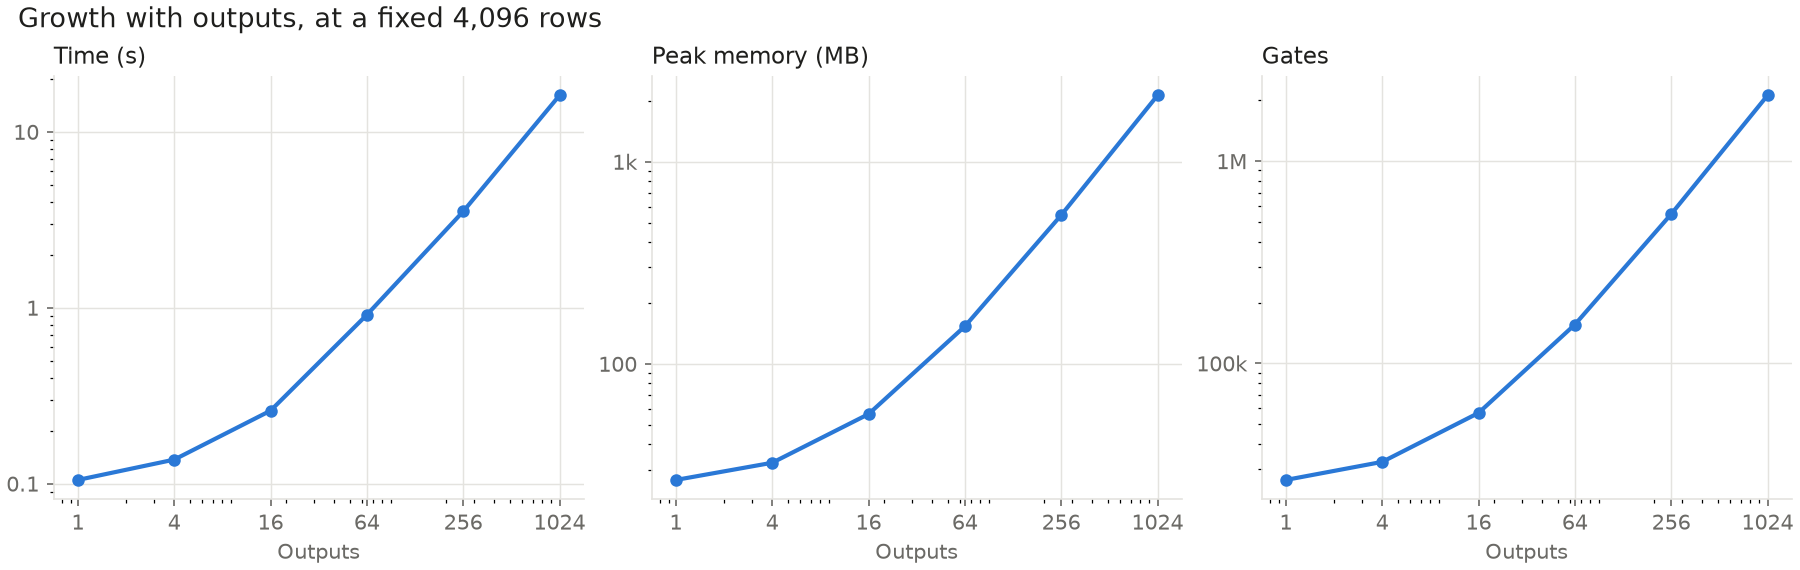
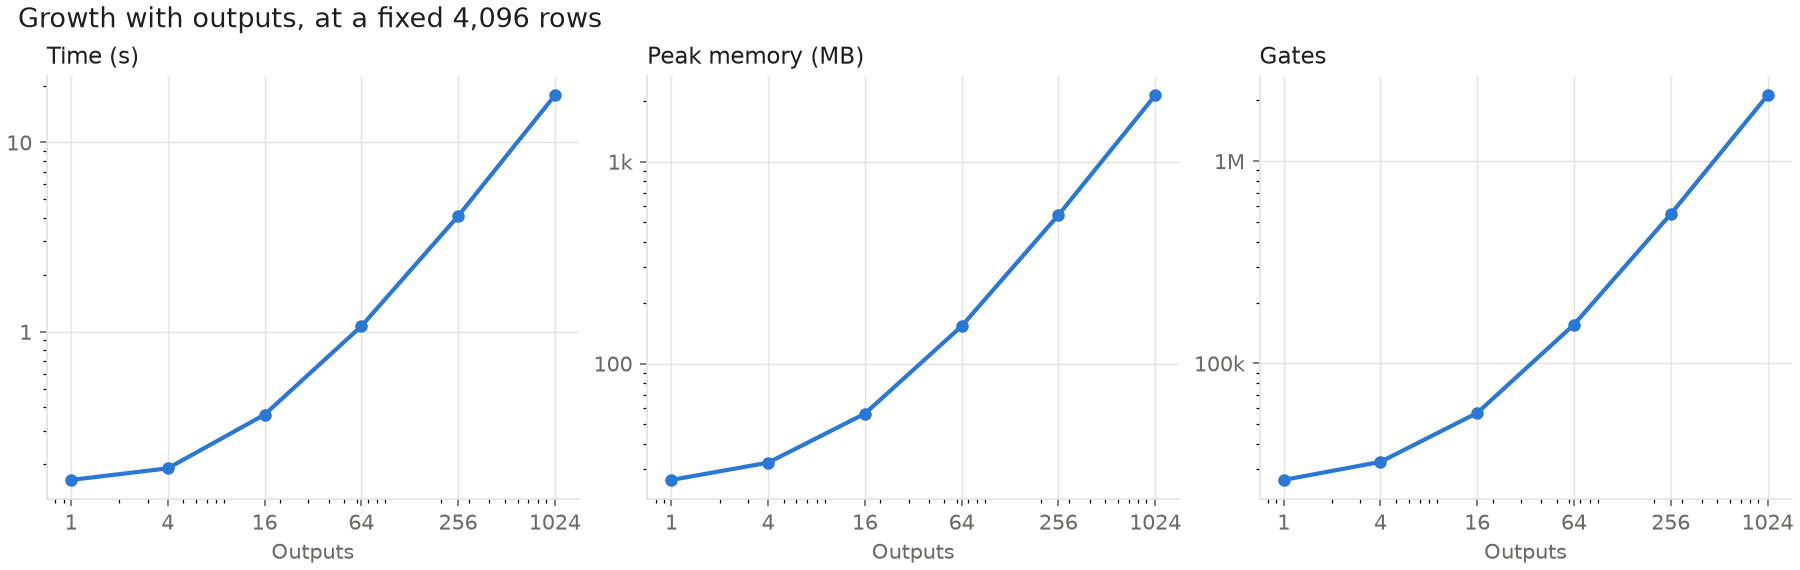
updated synthesizer benchmark and removed old baseline

diff --git a/benchmark/synthesizer/plot.py b/benchmark/synthesizer/plot.py
@@ -2,8 +2,8 @@
 """Turns one folder's results.csv into graphs and slopes.csv in its plots/ folder.
 
     benchmark/synthesizer/plot.py                      plots results/current/
-    benchmark/synthesizer/plot.py before_memory_fix    plots a saved run
-    benchmark/synthesizer/plot.py --compare before_memory_fix
+    benchmark/synthesizer/plot.py before_memory_fix_bv3    plots a saved run
+    benchmark/synthesizer/plot.py --compare before_memory_fix_bv3
                                                        also draws current against a saved run
 
 Exits 1 if a compared run built netlists of a different size on any FSM, because

diff --git a/docs/benchmarks.md b/docs/benchmarks.md
@@ -122,9 +122,8 @@ The tables and findings below describe the synthesizer **before** the memory fix
 
 | | |
 |---|---|
-| Data | `benchmark/synthesizer/results/before_memory_fix_bv3/results.csv` (run on 2026-11-04 on `bv3`, commit `3e953ef`, with the synthesizer from before the memory fix) |
+| Data | `benchmark/synthesizer/results/before_memory_fix_bv3/results.csv` (run on 2026-11-04 on `bv3`, commit `01c3349`, with `Synthesizer.cpp` from before the memory fix) |
 | Plots | `benchmark/synthesizer/results/before_memory_fix_bv3/plots/*.png` |
-| Earlier run | `benchmark/synthesizer/results/before_memory_fix/` is the first run, from the `stress-synthesizer` branch. Same memory, but different times, so keep it only as a record |
 | Data and plots after the fix | `benchmark/synthesizer/results/current/` |
 | Machine | Intel Core Ultra 5 125H with 14 GB of memory, every run pinned to CPU core 0. This is not the machine used for the simulator results above, so do not compare the two |
 | Build | `make` (`-O2`) |
@@ -154,11 +153,11 @@ Rows are tied to the other sizes, because a full table has `rows = states × 2^i
 
 | FSM | Rows | Time (s) | Memory (MB) | Gates | Flip-flops | Depth |
 |---|---|---|---|---|---|---|
-| 256 states, 2 inputs | 1,024 | 0.029 | 11 | 7,930 | 8 | 525 |
-| 4,096 states, 2 inputs | 16,384 | 0.94 | 160 | 160,831 | 12 | 8,330 |
-| 16,384 states, 2 inputs | 65,536 | 5.82 | 750 | 710,241 | 14 | 32,970 |
-| 65,536 states, 2 inputs | 262,144 | 33.0 | 3,536 | 3,103,349 | 16 | 131,504 |
-| 16 states, 14 inputs | 262,144 | 11.4 | 1,644 | 1,571,225 | 4 | 131,472 |
+| 256 states, 2 inputs | 1,024 | 0.058 | 10 | 7,930 | 8 | 525 |
+| 4,096 states, 2 inputs | 16,384 | 0.99 | 160 | 160,831 | 12 | 8,330 |
+| 16,384 states, 2 inputs | 65,536 | 5.51 | 750 | 710,241 | 14 | 32,970 |
+| 65,536 states, 2 inputs | 262,144 | 41.3 | 3,535 | 3,103,349 | 16 | 131,504 |
+| 16 states, 14 inputs | 262,144 | 11.3 | 1,643 | 1,571,225 | 4 | 131,472 |
 
 ### Scaling
 
@@ -166,22 +165,22 @@ Slope of log(value) against log(size), where 1 means linear and 2 means quadrati
 
 | Family, against | Time | Memory | Gates | Depth |
 |---|---|---|---|---|
-| `states`, rows | 1.29 (4 points) | 0.84 | 1.08 | 0.97 |
-| `inputs_full`, rows | 1.15 (3 points) | 0.74 | 1.00 | 0.97 |
+| `states`, rows | 1.28 (4 points) | 0.84 | 1.08 | 0.97 |
+| `inputs_full`, rows | 1.23 (3 points) | 0.74 | 1.00 | 0.97 |
 | `inputs_sparse`, inputs | 1.14 | 0.85 | 0.91 | 0.03 |
-| `outputs`, outputs | 0.75 | 0.65 | 0.65 | 0.01 |
+| `outputs`, outputs | 0.69 | 0.65 | 0.65 | 0.01 |
 
-The memory slopes below 1 include small runs, where the program's fixed start-up memory dominates. Between the two largest `states` cases, 4 times the rows took 5.7 times the time and 4.7 times the memory.
+The memory slopes below 1 include small runs, where the program's fixed start-up memory dominates. Between the two largest `states` cases, 4 times the rows took 7.5 times the time and 4.7 times the memory.
 
 `plots/slopes.csv` holds these values. Peak memory is plotted in `rows.png`.
 
 ### What the results show
 
 - **Memory was the limit.** The largest `states` case used about 13.8 KB per row, about 8 times the size of the netlist it writes. An early trial with 1,048,576 rows reached 11 GB of 14 GB before the system killed it. The memory fix addresses this.
-- **Rows cost more as states grow.** The same 262,144 rows take 33.0 s with 65,536 states and 11.4 s with 16 states. With more state bits, each row feeds more next-state lines, giving more OR gates.
+- **Rows cost more as states grow.** The same 262,144 rows take 41.3 s with 65,536 states and 11.3 s with 16 states. With more state bits, each row feeds more next-state lines, giving more OR gates.
 - **Depth grows linearly with rows.** It is about rows ÷ 2 when half the bits are 1, because the OR gates are chained. It does not depend on the number of inputs or outputs.
-- **Each extra input or output has a steady cost.** Time is close to linear in the number of inputs at fixed rows. With 4,096 rows, 1,024 outputs take 16.1 s.
-- **More 1s cost more.** From 0 to 75% ones, time goes from 0.095 s to 0.341 s and gates from 24,443 to 73,479. At 100% gates fall to 28,492 because all the output columns are identical and share one chain, but time stays at 0.249 s. Depth rises to 4,107, because that chain includes every row.
+- **Each extra input or output has a steady cost.** Time is close to linear in the number of inputs at fixed rows. With 4,096 rows, 1,024 outputs take 17.7 s.
+- **More 1s cost more.** From 0 to 75% ones, time goes from 0.062 s to 0.220 s and gates from 24,443 to 73,479. At 100% gates fall to 28,492 because all the output columns are identical and share one chain, but time stays at 0.173 s. Depth rises to 4,107, because that chain includes every row.
 - **Regular FSMs get no benefit.** A counter (36,868 gates) costs about the same as a random table (36,119), because nothing is minimized.
 - **Row order hardly matters:** 32,777 gates sorted and 32,584 shuffled.
 - **Unreachable states are expensive.** When 75% of the states are unreachable, removing them reduces gates from 35,196 to 8,090 and flip-flops from 10 to 8. The synthesizer does not remove them. In `unreachable.png`, the 0% case still shrinks slightly, because a random table leaves 25 of its states unreachable by chance. Its times are mostly under 0.1 s, so read them as a trend only.
@@ -192,22 +191,23 @@ The synthesizer used to copy each row's full list of signal names for every next
 
 | FSM | Rows | Time before (s) | Time after (s) | Faster | Memory before (MB) | Memory after (MB) | Smaller |
 |---|---|---|---|---|---|---|---|
-| 4,096 states, 2 inputs | 16,384 | 0.943 | 0.169 | 5.6× | 160 | 58 | 2.8× |
-| 65,536 states, 2 inputs | 262,144 | 33.0 | 6.62 | 5.0× | 3,536 | 1,053 | 3.4× |
-| 16 states, 14 inputs | 262,144 | 11.4 | 2.94 | 3.9× | 1,644 | 456 | 3.6× |
-| 256 states, 256 inputs | 4,096 | 9.06 | 1.67 | 5.4× | 824 | 306 | 2.7× |
-| 256 states, 1,024 outputs | 4,096 | 16.1 | 3.88 | 4.2× | 2,129 | 620 | 3.4× |
+| 4,096 states, 2 inputs | 16,384 | 0.987 | 0.135 | 7.3× | 160 | 58 | 2.8× |
+| 65,536 states, 2 inputs | 262,144 | 41.3 | 4.16 | 9.9× | 3,535 | 1,053 | 3.4× |
+| 16 states, 14 inputs | 262,144 | 11.3 | 2.38 | 4.7× | 1,643 | 456 | 3.6× |
+| 256 states, 256 inputs | 4,096 | 8.99 | 1.01 | 8.9× | 823 | 306 | 2.7× |
+| 256 states, 1,024 outputs | 4,096 | 17.7 | 2.06 | 8.6× | 2,129 | 620 | 3.4× |
 
-Both versions were built against `bv3` and measured one after the other through the same command. Only `Synthesizer.cpp` differs.
+Both versions were built against `bv3` and measured through the same command, one run after the other in the same session. Only `Synthesizer.cpp` differs.
 
-- **All cases:** none of the 51 FSMs became slower or used more memory. The 13 that used over 100 MB now use 2.6 to 3.6 times less memory. The 15 where both times are at least 0.1 s are 3.9 to 6.1 times faster.
-- **Time varies between runs, and memory does not.** The first runs, on `stress-synthesizer` on the same machine, took 19.8 s before and 3.1 to 3.9 s after on the 65,536-state FSM, while memory was the same to the nearest few MB. The gap between sessions is probably other work on the machine, though that was not checked. Compare times only within one session, and treat the speed-up as a rough figure.
+- **Memory:** the 13 FSMs that used over 100 MB now use 2.6 to 3.6 times less. This holds across every session. The one FSM that grew, the 16-state FSM, grew by 12 KB.
+- **Time:** the median speed-up is 6.6× across the 13 FSMs where both times are at least 0.1 s, with a range of 1.8× to 9.9×. The one FSM that got slower is the smallest of `inputs_full`, from 0.003 s to 0.020 s, which is below the noise level.
+- **Time varies between runs, and memory does not.** On the 65,536-state FSM, earlier sessions on the same machine took 19.8 s and 33.0 s before the fix, and 3.1 s to 6.6 s after it, with almost the same memory. Treat the speed-up as a rough figure, and compare times only within one session.
 - **Larger FSMs:** an FSM with 1,048,576 rows, which was killed at 11 GB before the fix, now finishes in 29 s using 2.7 GB. This was a separate single run, not part of `results.csv`.
 - **The netlists did not change.** The old and new code gave byte-identical netlists, error messages and exit codes on 2,294 inputs, including all 51 benchmark FSMs and malformed files. The netlist hashes in the two benchmark runs also match on all 51.
-- **Scaling is still above linear in time.** Between the two largest `states` cases, 4 times the rows now take 6.2 times the time and 4.0 times the memory. Depth and gates are unchanged, because the netlists are the same.
+- **Scaling is still above linear in time.** Between the two largest `states` cases, 4 times the rows now take 4.4 times the time and 4.0 times the memory. Depth and gates are unchanged, because the netlists are the same.
 - **What remains:** the largest case still holds its 443 MB netlist in memory, because nothing may be written until the whole FSM has been checked.
 
-The graph `results/current/plots/compare_before_memory_fix_bv3.png` shows the sweeps before and after. Compare `results/current/plots/slopes.csv` with care, because the faster runs leave only 3 or 4 points above the 0.1 s noise level for the time slopes.
+The graph `results/current/plots/compare_before_memory_fix_bv3.png` shows the sweeps before and after. Compare `results/current/plots/slopes.csv` with care, because the faster runs leave only 2 to 5 points above the 0.1 s noise level for the time slopes. In this run, the `inputs_full` and `inputs_sparse` time slopes come out below 1, which is more likely noise than a real change.
 
 ### Reproducing
 

diff --git a/benchmark/README.md b/benchmark/README.md
@@ -99,8 +99,7 @@ benchmark/synthesizer/
 ├── fsms/                    one .net file per FSM, plus manifest.csv (not committed)
 └── results/
     ├── current/             the latest run
-    ├── before_memory_fix_bv3/   saved run on bv3, from before the memory fix
-    └── before_memory_fix/       first saved run, from the stress-synthesizer branch
+    └── before_memory_fix_bv3/   saved run on bv3, from before the memory fix
 ```
 
 ### `generate.py`: writes the test FSMs
@@ -216,7 +215,7 @@ cp -r benchmark/synthesizer/results/current benchmark/synthesizer/results/<name>
 python3 benchmark/synthesizer/plot.py --compare <name>     # after a later run
 ```
 
-`results/before_memory_fix_bv3/` and `results/before_memory_fix/` are saved runs like this, so do not overwrite them.
+`results/before_memory_fix_bv3/` is a saved run like this, so do not overwrite it.
 Compare times only from runs on the same machine.
 
 `generate.py --quick` followed by `run.py` replaces `results/current/results.csv`
